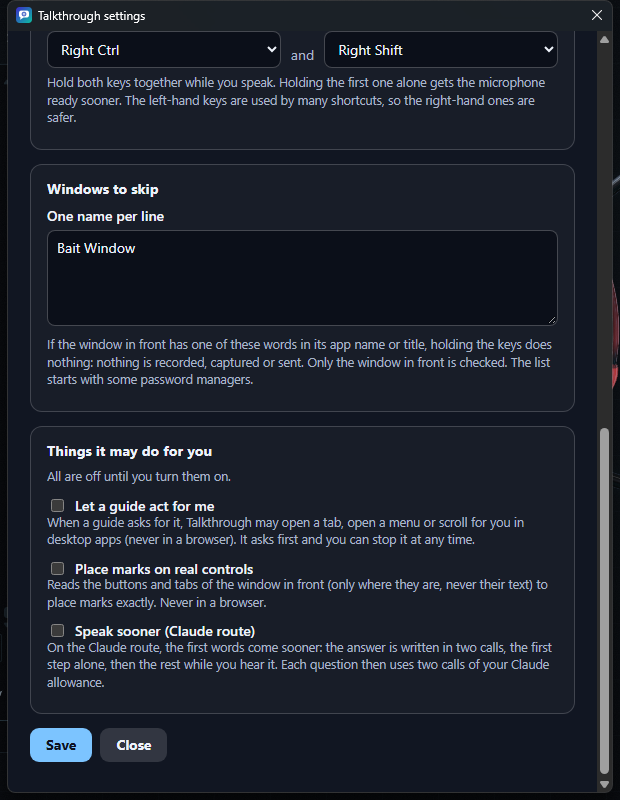
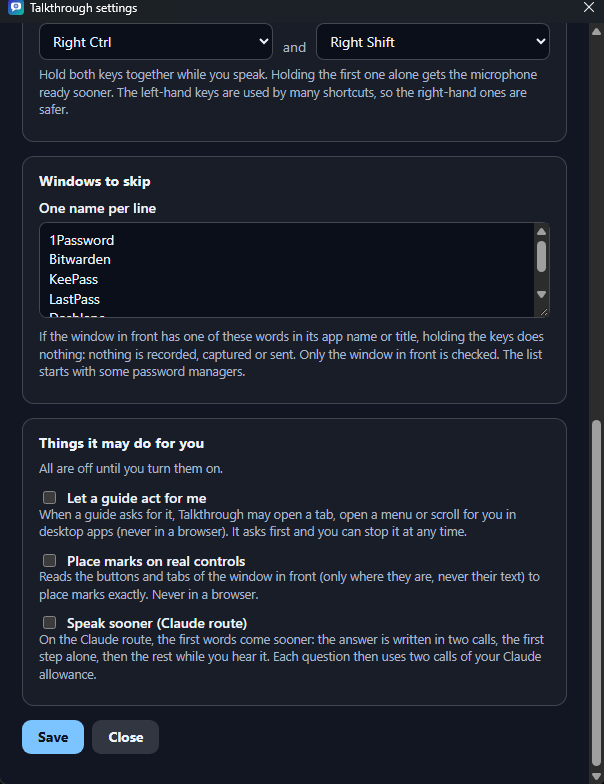
Release notes frames: the windows-to-skip frame shows the default list; both frames trimmed of their edges

Changed region(s): [[0.0, 0.0, 1.0, 1.0], [0.0, 0.0, 0.9238, 0.1837]]

diff --git a/docs/release-0.2.0.md b/docs/release-0.2.0.md
@@ -16,7 +16,7 @@ Right-click the tray icon and choose **Settings…**. One window holds what used
 
 **Speak sooner** (Claude Code route, off by default). The answer is written in two calls: the first step alone, then the rest while you hear it.
 
-![The lower half of the settings window: the two keys, the windows to skip, and the three switches, all off.](media/frame-settings-skip.png)
+![The lower half of the settings window: the two keys, the windows to skip (the list as it starts, password managers first) and the three switches, all off.](media/frame-settings-skip.png)
 
 ## What an answer can draw
 
